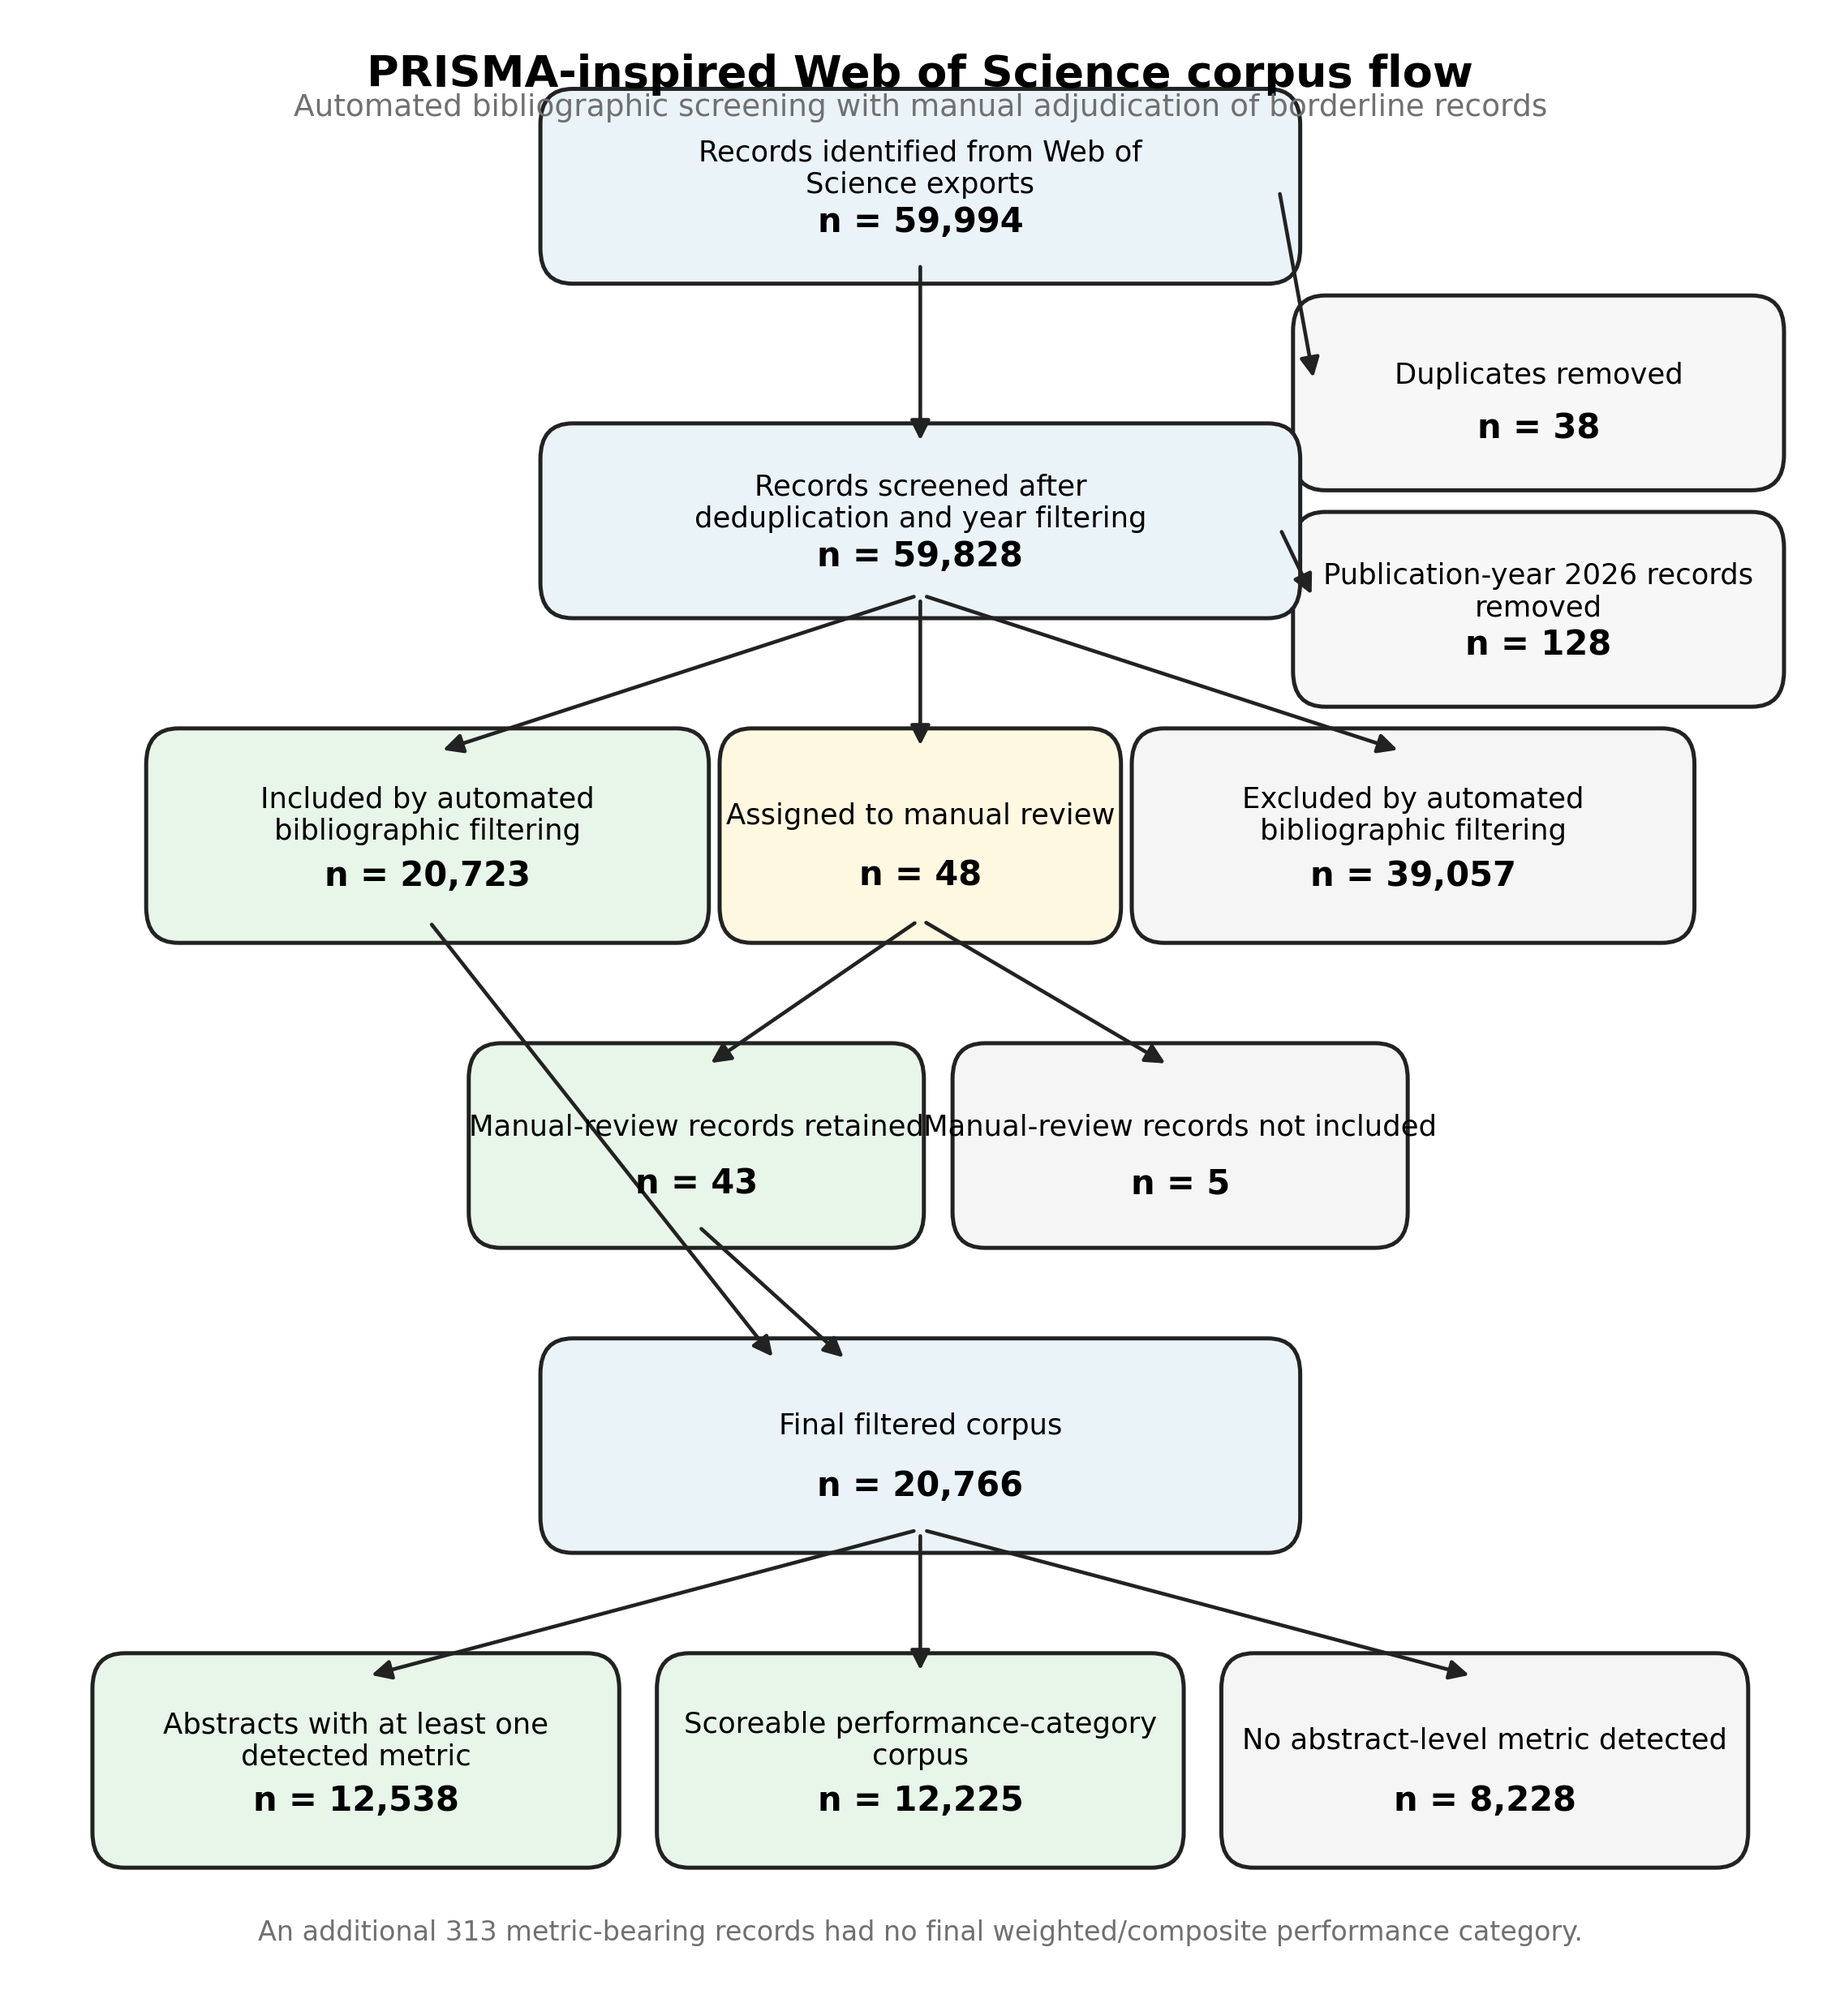
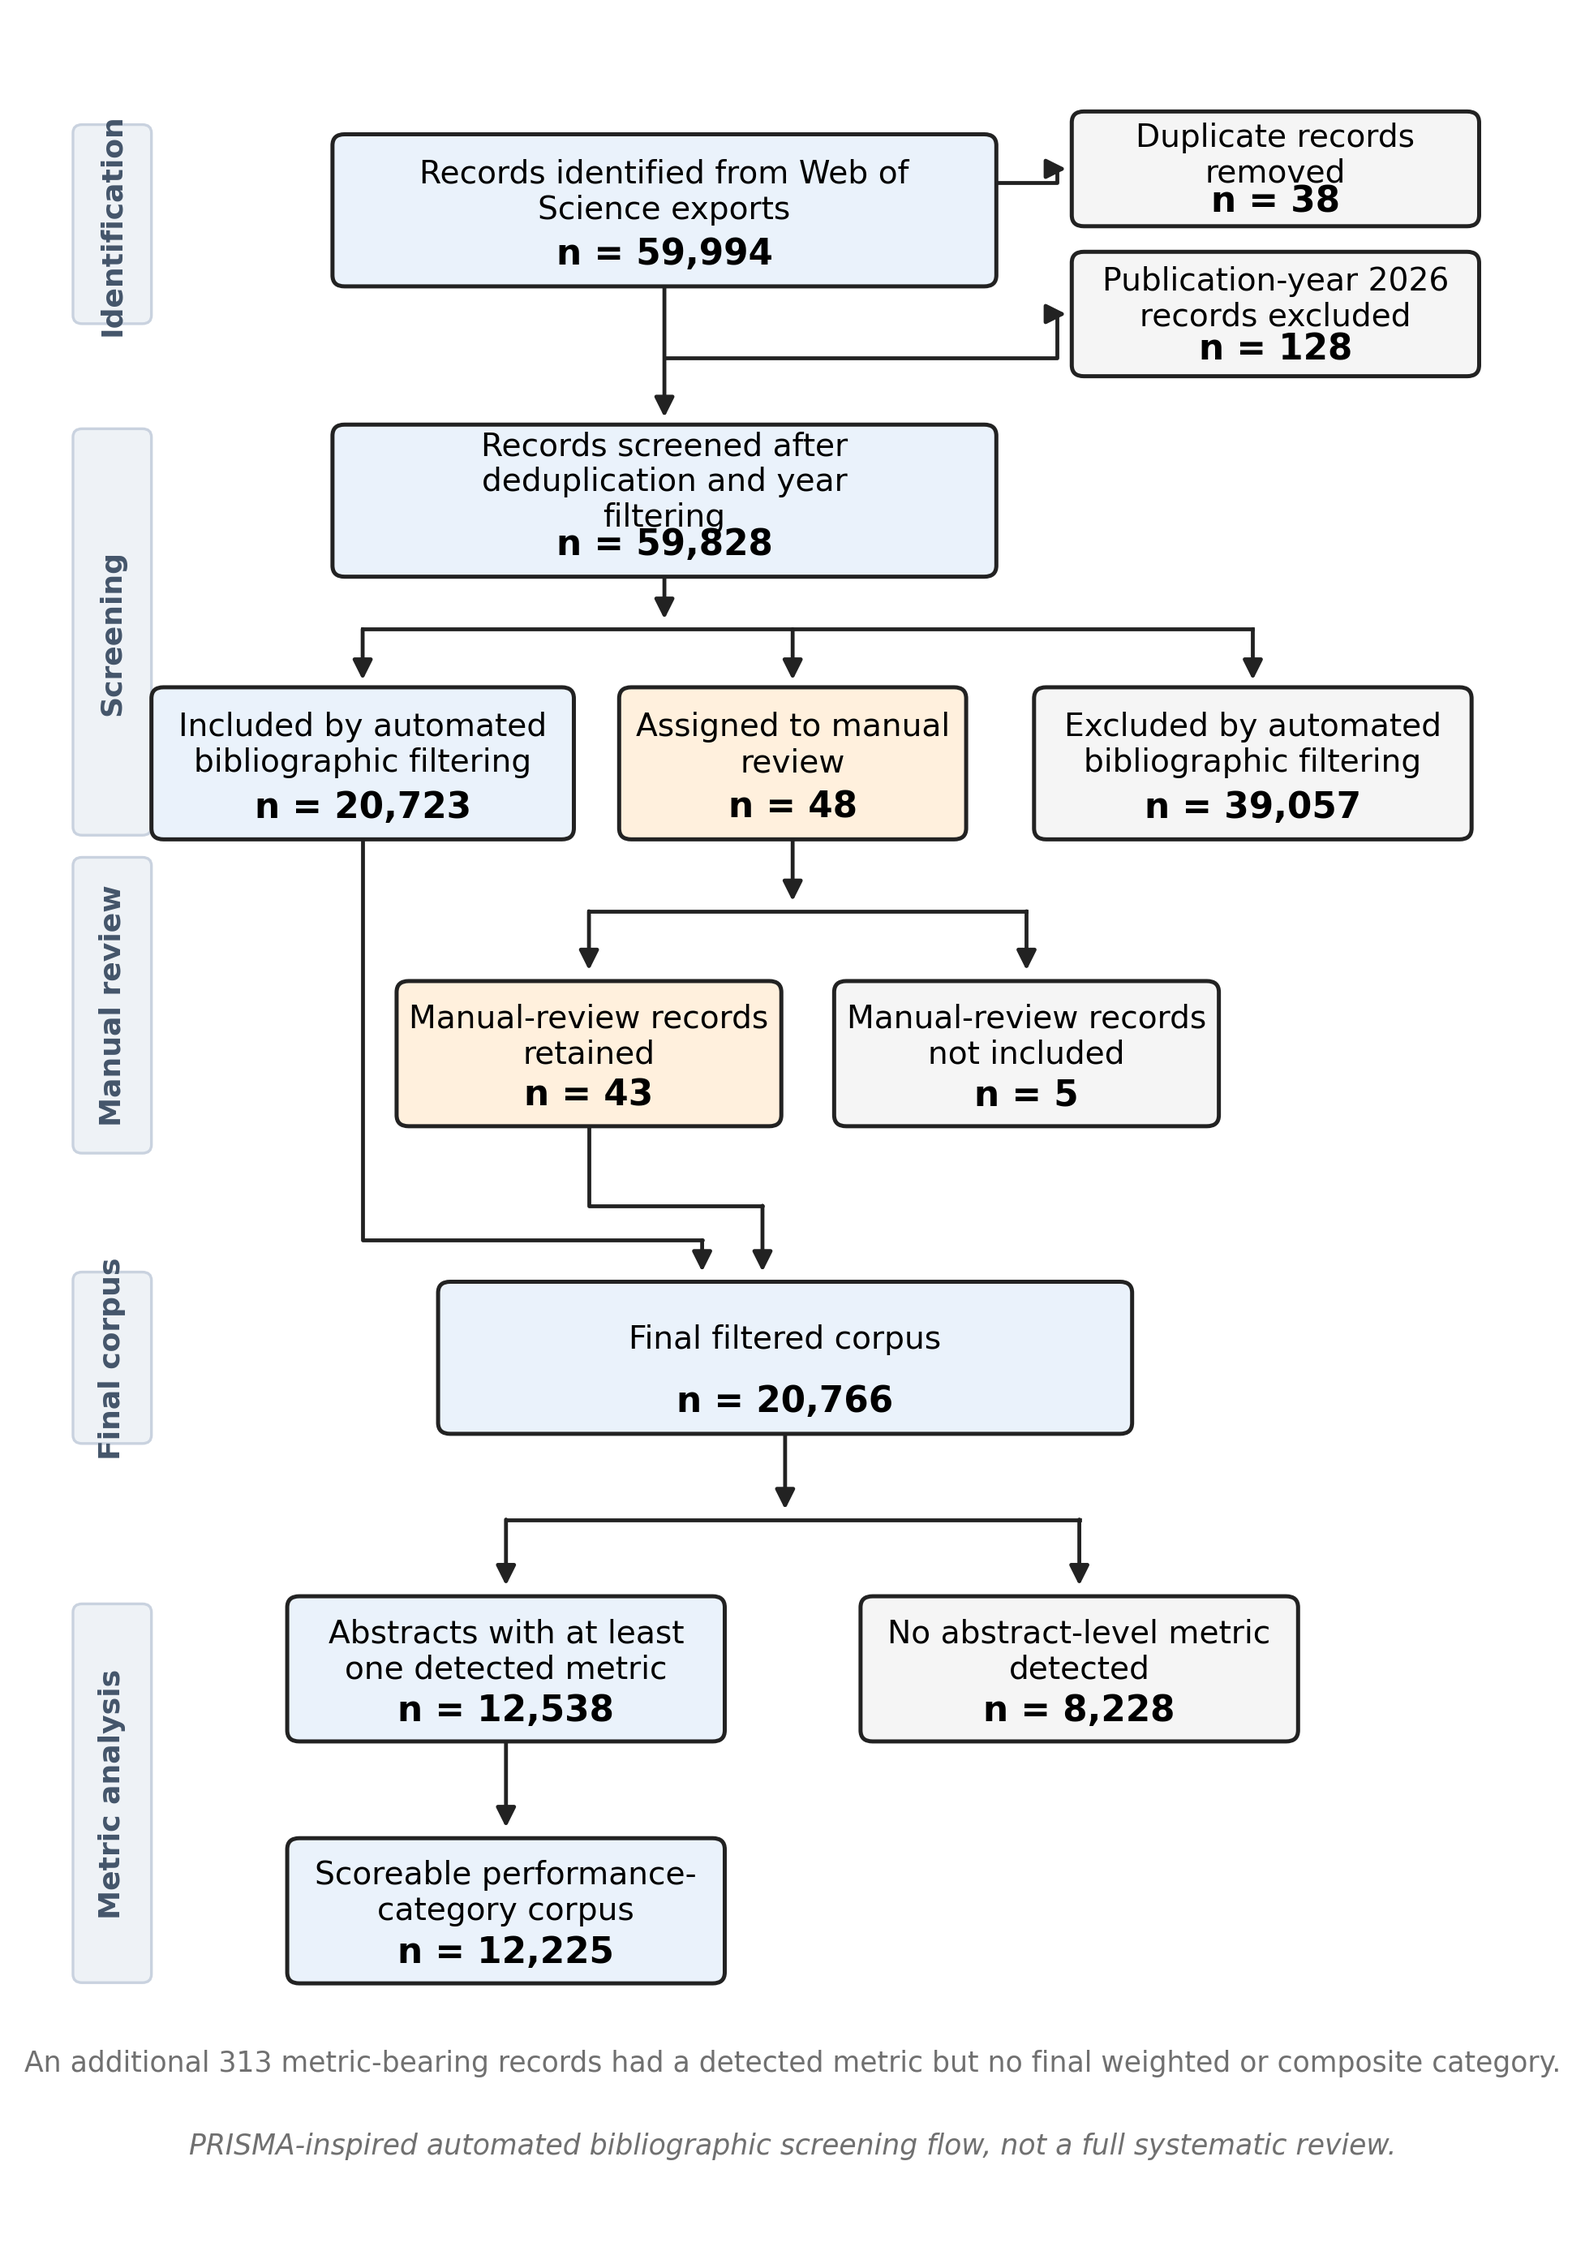
Redesign PRISMA flow figure

diff --git a/visualizations/build_visualizations.py b/visualizations/build_visualizations.py
@@ -270,90 +270,153 @@ def build_flow_figure() -> None:
     )
     save_csv(flow, "figure1_prisma_flow.csv")
 
-    fig, ax = plt.subplots(figsize=(9.5, 10.5))
+    fig, ax = plt.subplots(figsize=(8.0, 11.8))
+    ax.set_xlim(0, 10)
+    ax.set_ylim(0, 16)
     ax.set_axis_off()
 
-    def box(x: float, y: float, w: float, h: float, title: str, count: int, fc: str = "white") -> None:
+    main_fc = "#eaf2fb"
+    exclusion_fc = "#f5f5f5"
+    manual_fc = "#fff0dd"
+    phase_fc = "#eef2f6"
+
+    def box(
+        cx: float,
+        cy: float,
+        w: float,
+        h: float,
+        title: str,
+        count: int,
+        fc: str,
+        ec: str = COLORS["dark"],
+        wrap_width: int = 30,
+    ) -> None:
+        x = cx - w / 2
+        y = cy - h / 2
         patch = FancyBboxPatch(
             (x, y),
             w,
             h,
-            boxstyle="round,pad=0.012,rounding_size=0.018",
+            boxstyle="round,pad=0.025,rounding_size=0.08",
             linewidth=1.2,
-            edgecolor=COLORS["dark"],
+            edgecolor=ec,
             facecolor=fc,
         )
         ax.add_patch(patch)
-        ax.text(x + w / 2, y + h * 0.62, wrap(title, 34), ha="center", va="center", fontsize=8.5)
-        ax.text(x + w / 2, y + h * 0.26, f"n = {count:,}", ha="center", va="center", fontsize=10, fontweight="bold")
+        ax.text(cx, cy + h * 0.13, wrap(title, wrap_width), ha="center", va="center", fontsize=9.4)
+        ax.text(cx, cy - h * 0.30, f"n = {count:,}", ha="center", va="center", fontsize=10.5, fontweight="bold")
 
-    def arrow(start: tuple[float, float], end: tuple[float, float]) -> None:
+    def phase_label(label: str, y0: float, y1: float) -> None:
+        patch = FancyBboxPatch(
+            (0.25, y0),
+            0.48,
+            y1 - y0,
+            boxstyle="round,pad=0.02,rounding_size=0.06",
+            linewidth=0.8,
+            edgecolor="#c9d2df",
+            facecolor=phase_fc,
+        )
+        ax.add_patch(patch)
+        ax.text(
+            0.49,
+            (y0 + y1) / 2,
+            label,
+            ha="center",
+            va="center",
+            rotation=90,
+            fontsize=8.7,
+            fontweight="bold",
+            color="#44556a",
+        )
+
+    def connector(points: list[tuple[float, float]], color: str = COLORS["dark"]) -> None:
+        if len(points) < 2:
+            return
+        if len(points) > 2:
+            xs = [point[0] for point in points[:-1]]
+            ys = [point[1] for point in points[:-1]]
+            ax.plot(xs, ys, color=color, linewidth=1.15, solid_capstyle="round", zorder=0)
         ax.add_patch(
             FancyArrowPatch(
-                start,
-                end,
+                points[-2],
+                points[-1],
                 arrowstyle="-|>",
                 mutation_scale=12,
-                linewidth=1.1,
-                color=COLORS["dark"],
+                linewidth=1.15,
+                color=color,
+                shrinkA=0,
+                shrinkB=3,
+                zorder=0,
             )
         )
 
-    box(0.30, 0.88, 0.40, 0.075, "Records identified from Web of Science exports", 59994, "#eaf3f8")
-    box(0.72, 0.775, 0.25, 0.075, "Duplicates removed", 38, "#f7f7f7")
-    box(0.72, 0.665, 0.25, 0.075, "Publication-year 2026 records removed", 128, "#f7f7f7")
-    box(0.30, 0.71, 0.40, 0.075, "Records screened after deduplication and year filtering", 59828, "#eaf3f8")
-    box(0.08, 0.545, 0.29, 0.085, "Included by automated bibliographic filtering", 20723, "#e8f5e9")
-    box(0.40, 0.545, 0.20, 0.085, "Assigned to manual review", 48, "#fff8e1")
-    box(0.63, 0.545, 0.29, 0.085, "Excluded by automated bibliographic filtering", 39057, "#f5f5f5")
-    box(0.26, 0.39, 0.23, 0.08, "Manual-review records retained", 43, "#e8f5e9")
-    box(0.53, 0.39, 0.23, 0.08, "Manual-review records not included", 5, "#f5f5f5")
-    box(0.30, 0.235, 0.40, 0.085, "Final filtered corpus", 20766, "#eaf3f8")
-    box(0.05, 0.075, 0.27, 0.085, "Abstracts with at least one detected metric", 12538, "#e8f5e9")
-    box(0.365, 0.075, 0.27, 0.085, "Scoreable performance-category corpus", 12225, "#e8f5e9")
-    box(0.68, 0.075, 0.27, 0.085, "No abstract-level metric detected", 8228, "#f5f5f5")
+    phase_label("Identification", 13.85, 15.25)
+    phase_label("Screening", 10.15, 13.05)
+    phase_label("Manual review", 7.85, 9.95)
+    phase_label("Final corpus", 5.75, 6.95)
+    phase_label("Metric analysis", 1.85, 4.55)
+
+    box(4.15, 14.65, 4.35, 1.05, "Records identified from Web of Science exports", 59994, main_fc)
+    box(8.20, 14.95, 2.65, 0.78, "Duplicate records removed", 38, exclusion_fc, wrap_width=22)
+    box(8.20, 13.90, 2.65, 0.85, "Publication-year 2026 records excluded", 128, exclusion_fc, wrap_width=22)
+    box(4.15, 12.55, 4.35, 1.05, "Records screened after deduplication and year filtering", 59828, main_fc)
+
+    box(2.15, 10.65, 2.75, 1.05, "Included by automated bibliographic filtering", 20723, main_fc, wrap_width=23)
+    box(5.00, 10.65, 2.25, 1.05, "Assigned to manual review", 48, manual_fc, wrap_width=20)
+    box(8.05, 10.65, 2.85, 1.05, "Excluded by automated bibliographic filtering", 39057, exclusion_fc, wrap_width=23)
+
+    box(3.65, 8.55, 2.50, 1.00, "Manual-review records retained", 43, manual_fc, wrap_width=22)
+    box(6.55, 8.55, 2.50, 1.00, "Manual-review records not included", 5, exclusion_fc, wrap_width=22)
+    box(4.95, 6.35, 4.55, 1.05, "Final filtered corpus", 20766, main_fc)
+
+    box(3.10, 4.10, 2.85, 1.00, "Abstracts with at least one detected metric", 12538, main_fc, wrap_width=24)
+    box(6.90, 4.10, 2.85, 1.00, "No abstract-level metric detected", 8228, exclusion_fc, wrap_width=24)
+    box(3.10, 2.35, 2.85, 1.00, "Scoreable performance-category corpus", 12225, main_fc, wrap_width=24)
+
     ax.text(
-        0.50,
-        0.03,
-        "An additional 313 metric-bearing records had no final weighted/composite performance category.",
+        5.0,
+        1.25,
+        "An additional 313 metric-bearing records had a detected metric but no final weighted or composite category.",
         ha="center",
         va="center",
-        fontsize=8,
+        fontsize=8.3,
         color=COLORS["gray"],
     )
-
-    arrow((0.50, 0.88), (0.50, 0.785))
-    arrow((0.70, 0.917), (0.72, 0.817))
-    arrow((0.70, 0.745), (0.72, 0.707))
-    arrow((0.50, 0.71), (0.23, 0.63))
-    arrow((0.50, 0.71), (0.50, 0.63))
-    arrow((0.50, 0.71), (0.77, 0.63))
-    arrow((0.50, 0.545), (0.38, 0.47))
-    arrow((0.50, 0.545), (0.64, 0.47))
-    arrow((0.225, 0.545), (0.42, 0.32))
-    arrow((0.375, 0.39), (0.46, 0.32))
-    arrow((0.50, 0.235), (0.19, 0.16))
-    arrow((0.50, 0.235), (0.50, 0.16))
-    arrow((0.50, 0.235), (0.81, 0.16))
-
     ax.text(
-        0.5,
-        0.985,
-        "PRISMA-inspired Web of Science corpus flow",
+        5.0,
+        0.65,
+        "PRISMA-inspired automated bibliographic screening flow, not a full systematic review.",
         ha="center",
-        va="top",
-        fontsize=13,
-        fontweight="bold",
-    )
-    ax.text(
-        0.5,
-        0.965,
-        "Automated bibliographic screening with manual adjudication of borderline records",
-        ha="center",
-        va="top",
-        fontsize=9,
+        va="center",
+        fontsize=8.3,
         color=COLORS["gray"],
+        style="italic",
     )
+
+    connector([(4.15, 14.13), (4.15, 13.08)])
+    connector([(6.33, 14.85), (6.75, 14.85), (6.75, 14.95), (6.88, 14.95)])
+    connector([(4.15, 13.58), (6.75, 13.58), (6.75, 13.90), (6.88, 13.90)])
+
+    connector([(4.15, 12.03), (4.15, 11.62)])
+    ax.plot([2.15, 8.05], [11.62, 11.62], color=COLORS["dark"], linewidth=1.15, zorder=0)
+    connector([(2.15, 11.62), (2.15, 11.18)])
+    connector([(5.00, 11.62), (5.00, 11.18)])
+    connector([(8.05, 11.62), (8.05, 11.18)])
+
+    connector([(5.00, 10.13), (5.00, 9.58)])
+    ax.plot([3.65, 6.55], [9.58, 9.58], color=COLORS["dark"], linewidth=1.15, zorder=0)
+    connector([(3.65, 9.58), (3.65, 9.08)])
+    connector([(6.55, 9.58), (6.55, 9.08)])
+
+    connector([(2.15, 10.13), (2.15, 7.20), (4.40, 7.20), (4.40, 6.90)])
+    connector([(3.65, 8.03), (3.65, 7.45), (4.80, 7.45), (4.80, 6.90)])
+
+    connector([(4.95, 5.83), (4.95, 5.18)])
+    ax.plot([3.10, 6.90], [5.18, 5.18], color=COLORS["dark"], linewidth=1.15, zorder=0)
+    connector([(3.10, 5.18), (3.10, 4.63)])
+    connector([(6.90, 5.18), (6.90, 4.63)])
+    connector([(3.10, 3.60), (3.10, 2.88)])
+
     fig.savefig(FIGURE_DIR / "fig1_PRISMA-flow diagram.png", dpi=300, bbox_inches="tight")
     plt.close(fig)
 
